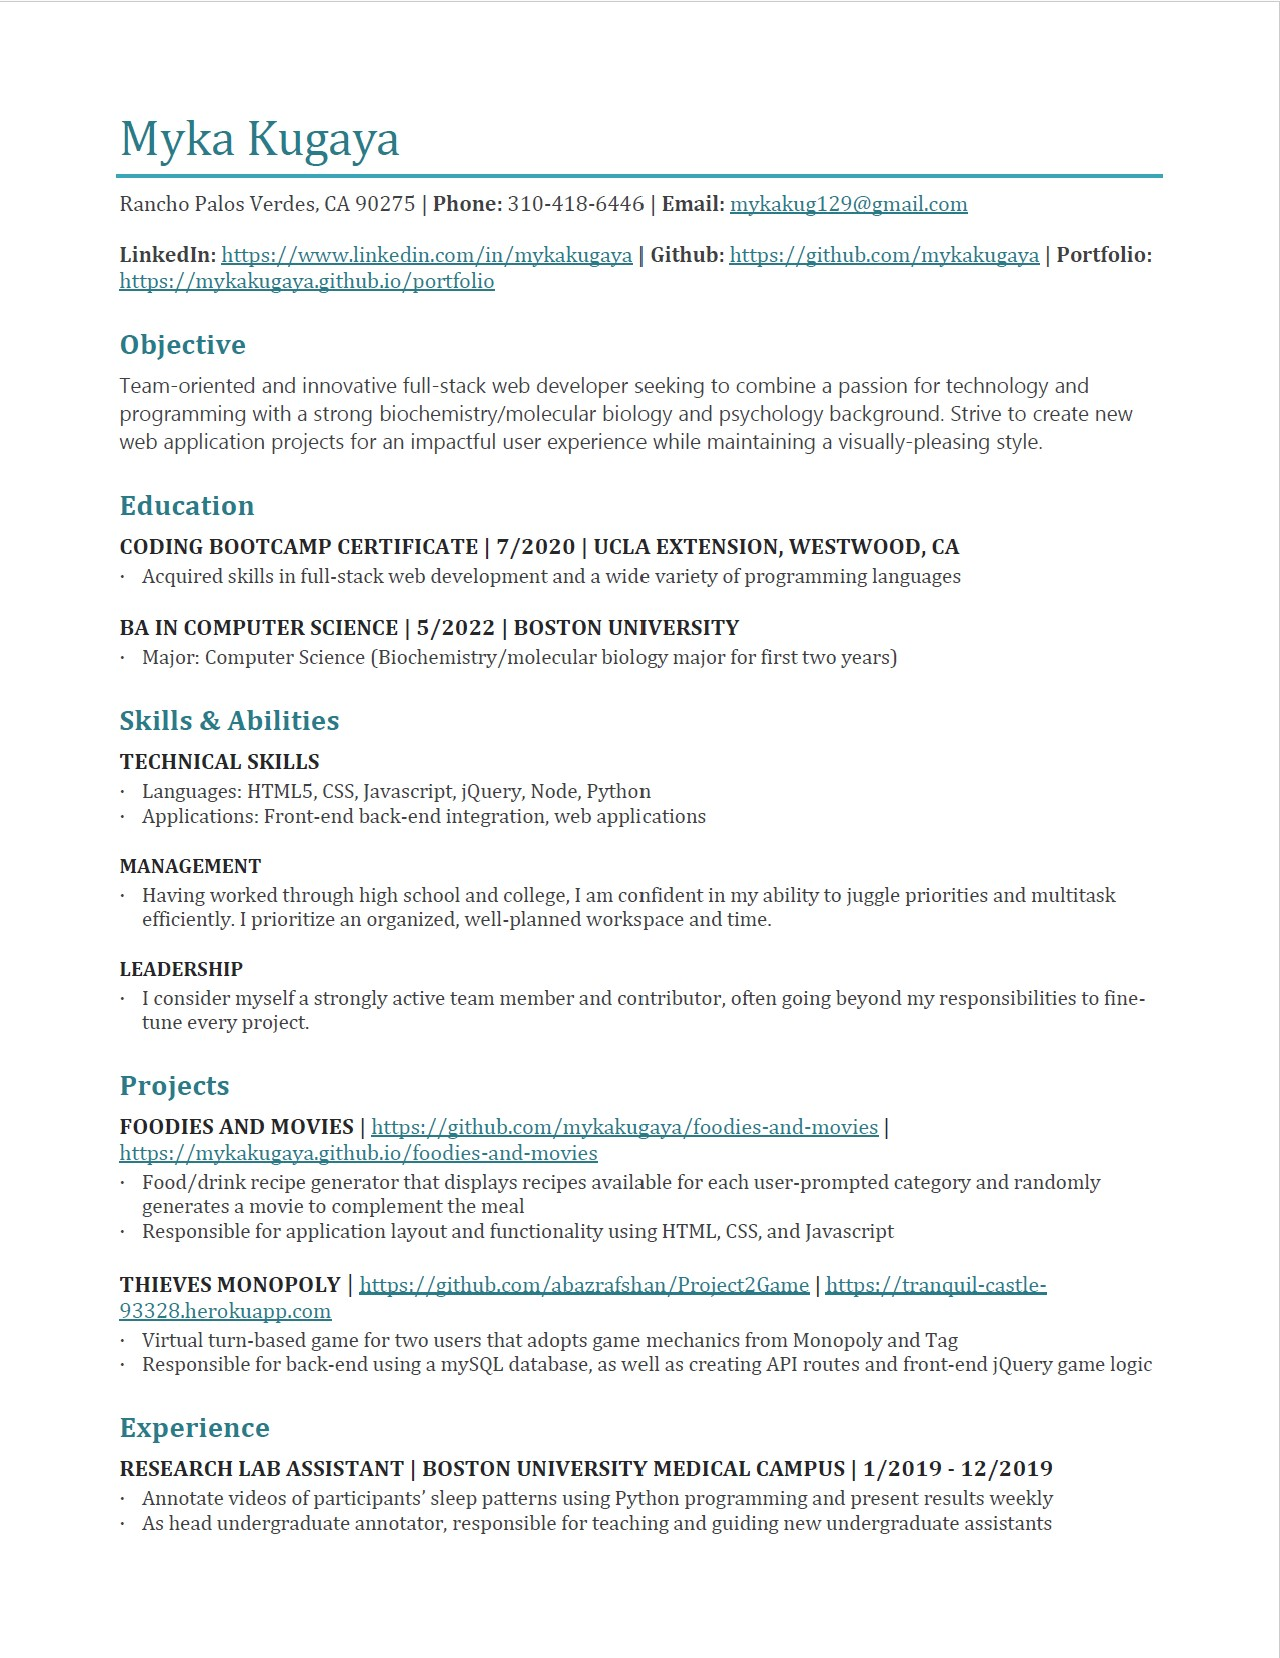
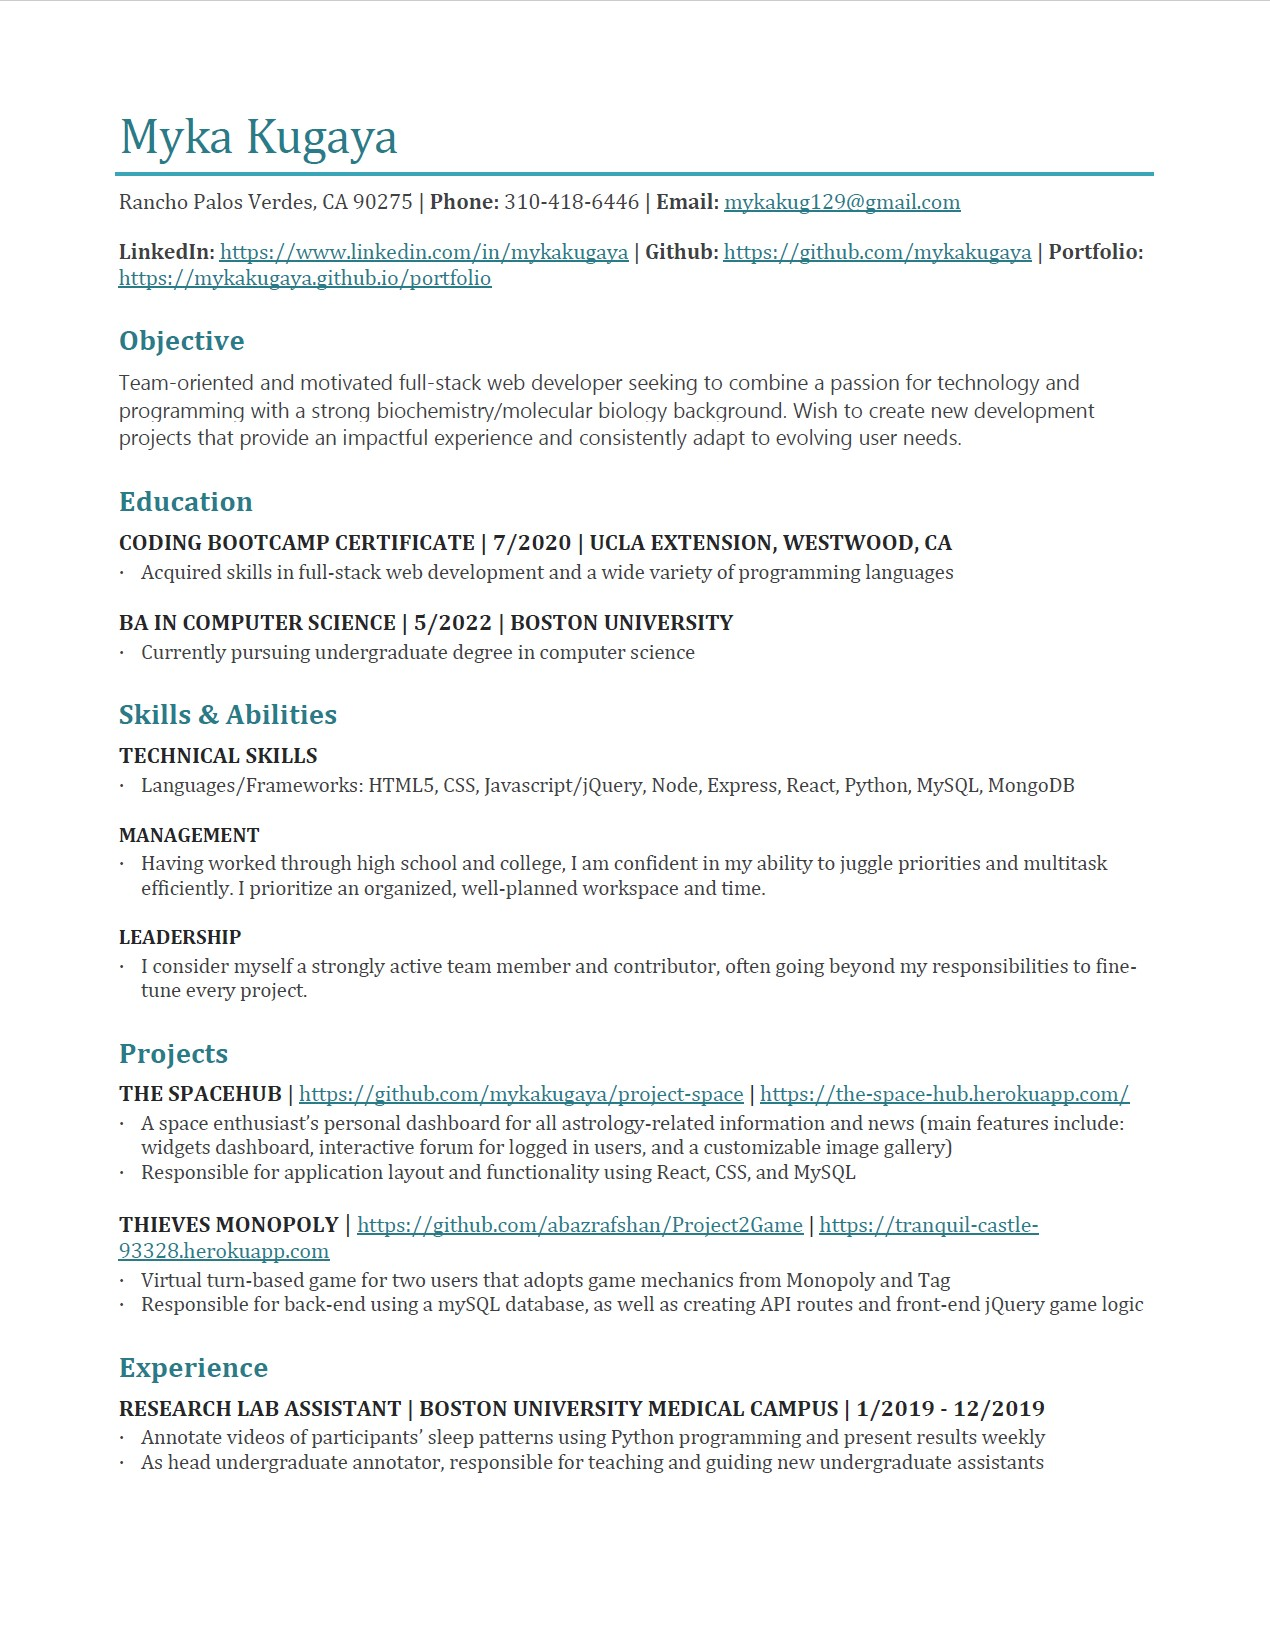
added project 3

Changed region(s): [[0.0921, 0.4343, 0.8906, 0.9307], [0.0921, 0.062, 0.8906, 0.4033], [0.8598, 0.1241, 0.8906, 0.1551]]

diff --git a/portfolio.html b/portfolio.html
@@ -39,6 +39,29 @@
                     <div class="row">
                         <h1>Portfolio</h1>
                     </div>
+                    <!--Project 3: The SpaceHub-->
+                    <div class="row item">
+                        <img class="circle responsive-image" src="./images/spacehub.jpg" alt="The Space Hub">
+                        <h4>The Space Hub</h4>
+
+                        <a class="waves-effect waves-light btn modal-trigger" href="#spacehubModal"><i class="material-icons left">visibility</i>Preview</a>
+                        <div id="spacehubModal" class="modal">
+                            <div class="modal-content">
+                                <h4>The Space Hub</h4>
+                                <img src="./images/spacehubPreview.jpg" alt="Thieves Monopoly">
+                            </div>
+                            <div class="modal-footer">
+                                <a href="#" class="modal-close waves-effect waves-green btn-flat">Close</a>
+                            </div>
+                        </div>
+
+                        <p>(PROJECT) A space enthusiast’s personal dashboard for all astrology-related information and news. Main features include a space widgets dashboard, interactive forum for logged in users, and a customizable image gallery. </p>
+                        <p>
+                            <i class="material-icons prefix">launch</i><a target="_blank" href="https://the-space-hub.herokuapp.com/">Deployed application</a>
+                            <br>
+                            <i class="material-icons prefix">build</i><a target="_blank" href="https://github.com/mykakugaya/project-space/">Github repository</a>
+                        </p>
+                    </div>
                     <!--Project 2: Thieves-Monopoly-->
                     <div class="row item">
                         <img class="circle responsive-image" src="./images/monopoly.jpg" alt="Thieves Monopoly">
